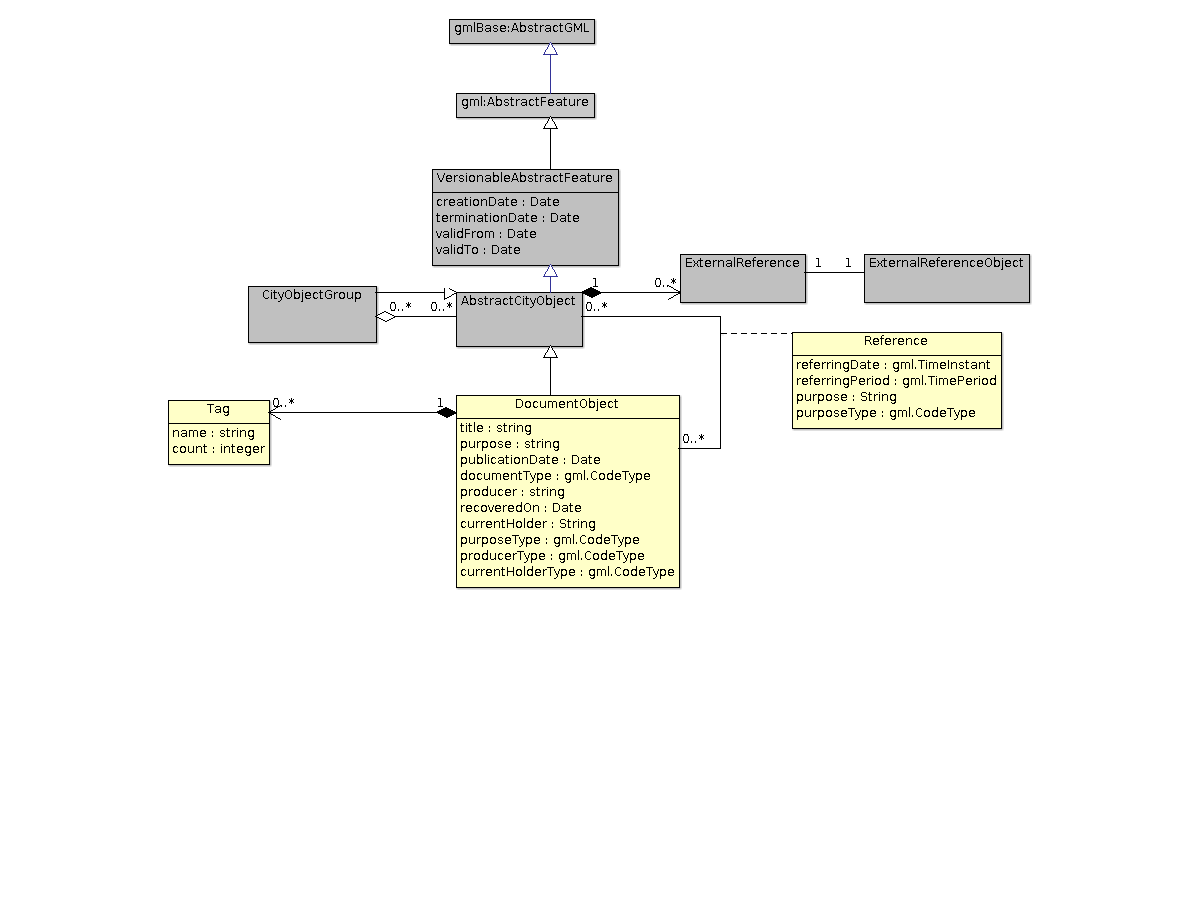
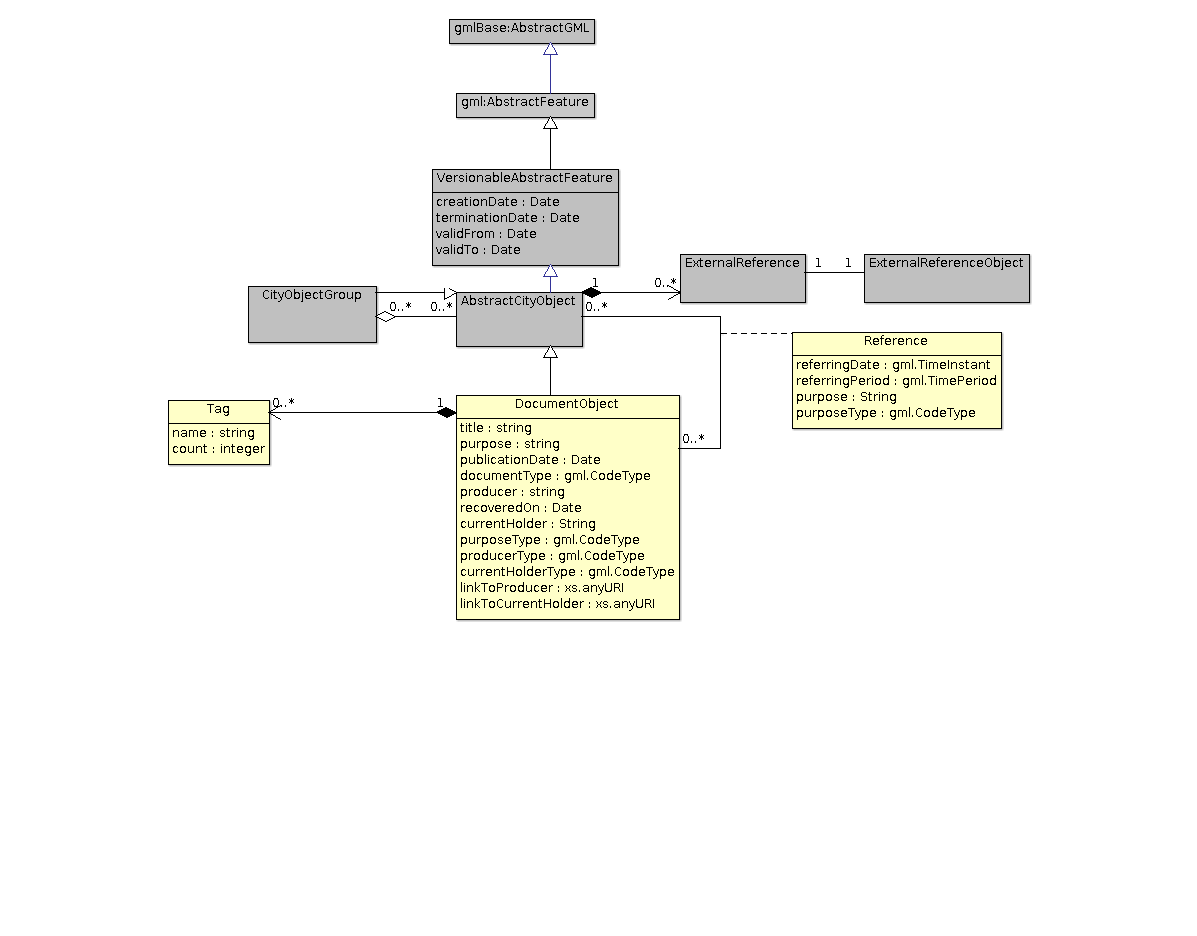
Update UML diagram with producer, currentHolder URI

Changed region(s): [[0.1236, 0.0929, 0.8655, 0.6814], [0.3709, 0.0, 0.4946, 0.0619]]

diff --git a/doc/ADE/DocumentADE/documentADE.md b/doc/ADE/DocumentADE/documentADE.md
@@ -9,7 +9,8 @@
 - What's the precise definition of a referring date?
 - Shouldn't there be many referring dates for a particular city object in a document? 
 - Do we require any other attributes to describe a reference? What is the purpose of the reference? Is it an imaginary project or date?
-
+- Should Reference or Document have attributes like address like core:AbstractBuilding?
+- Do we need a separate attribute publicationDate (use creationDate instead?)
 
 ## Evolution of Document ADE
 ### First proposition 
